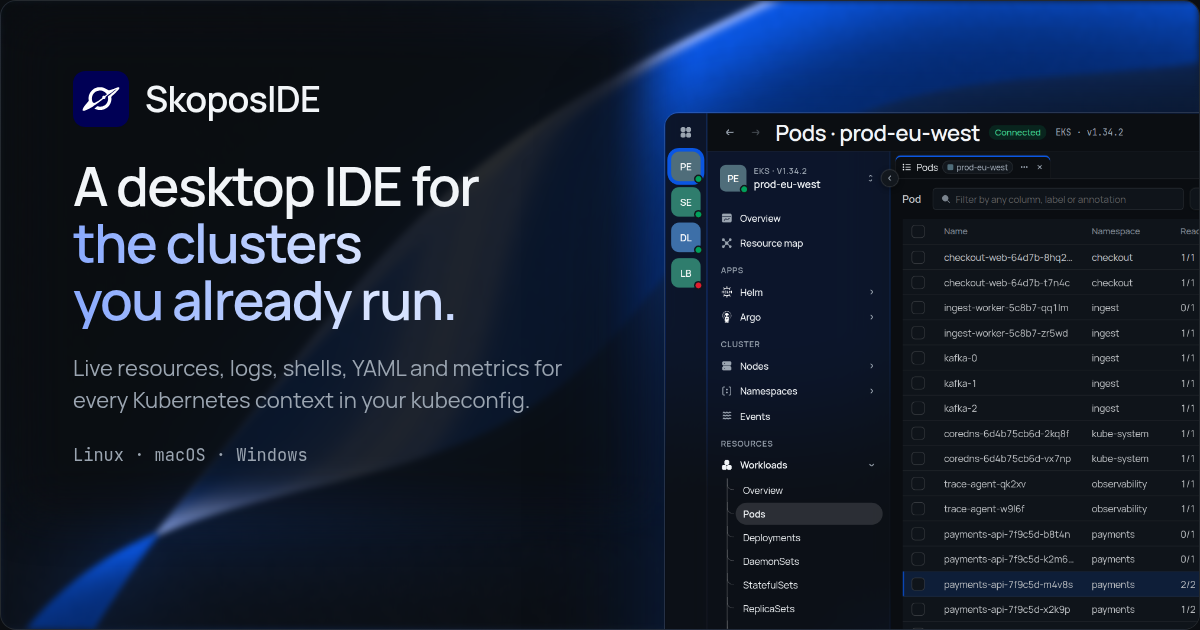
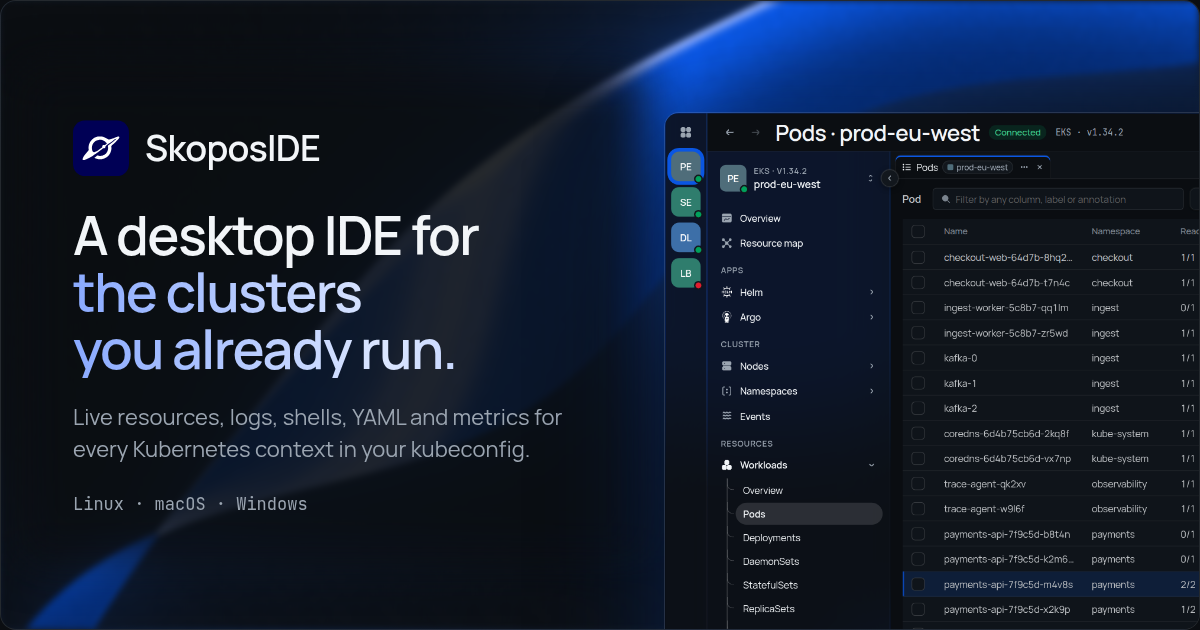
docs(site): center the social card's text in the band a GitHub topic page shows

Changed region(s): [[0.0617, 0.0905, 0.4625, 0.9349], [0.4933, 0.0603, 0.555, 0.1508], [0.0617, 0.7841, 0.0925, 0.8143]]

diff --git a/scripts/social-card.html b/scripts/social-card.html
@@ -27,10 +27,13 @@
     isolation: isolate;
   }
 
+  /* Centered on the card's height: a GitHub topic page shows the repository's social preview
+     cropped to its middle 275 px band, about 88 to 541 px of this card. */
   .card__copy {
     position: absolute;
     z-index: 1;
-    top: 64px;
+    top: 50%;
+    transform: translateY(-50%);
     left: 72px;
     width: 520px;
     display: flex;
